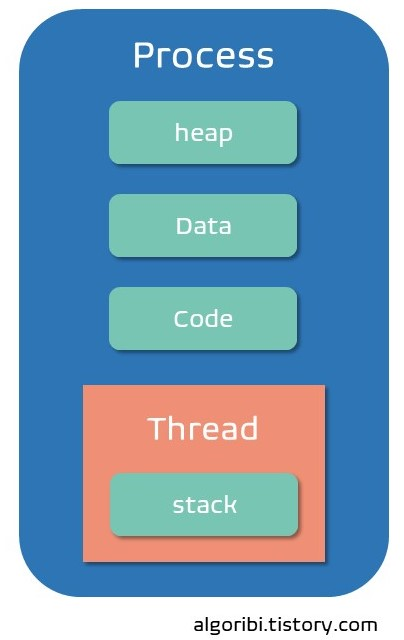
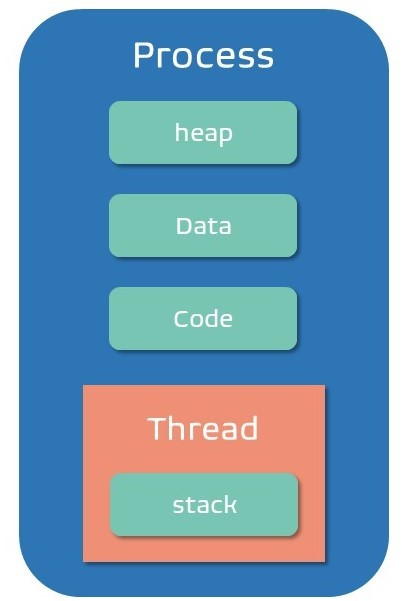
os

diff --git a/os/Process&Thread.md b/os/Process&Thread.md
@@ -10,7 +10,7 @@
   - 서로 다른 프로세스에 접근하려면 프로세스 간의 통신(IPC)을 사용해야 한다.
 - 호출된 함수의 복귀 주소, 지역 변수를 저장하는 **스택**과 프로세스의 실행 중 동적으로 할당되는 **힙**, 전역 변수들을 저장하며 읽고 쓰기가 가능한 **데이터 영역**, 프로세서가 실행하는 코드를 저장하는 **코드 영역**으로 이루어져 있다.
 
-![Alt text](/img/process_1.JPG)
+![process](img/process.png)
 
 ## 프로세스 제어 블록(PCB)
 
@@ -20,7 +20,7 @@
 
 ## 프로세스 상태
 
-![Alt text](/img/process_2.jpg)
+![process](/img/process_2.jpg)
 
 - 생성(new) : 메인 메모리에 프로세스의 작업 공간이 생성되고, 프로세스의 정보를 관라하기 위한 PCB가 만들어지는 상태
 - 준비(ready) : cpu외의 모든 자원을 할당받은 상태로 프로세서에 할당되기를 기다리는 상태
@@ -49,7 +49,7 @@
 - 스레드는 별도의 레지스터와 스택을 가지고 있으며, 같은 프로세스에 속한 다른 스레드와 힙, 데이터, 코드 영역의 자원들을 공유한다.
   - 문백교환 시간이 짧다.
   - 스레드간에 커널의 도움없이 통신이 가능하다.
-    ![Alt text](/img/thread_1.JPG)
+    ![thread](./img/thread_1.JPG)
 
 # 멀티 프로세스 vs 멀티 스레드
 
